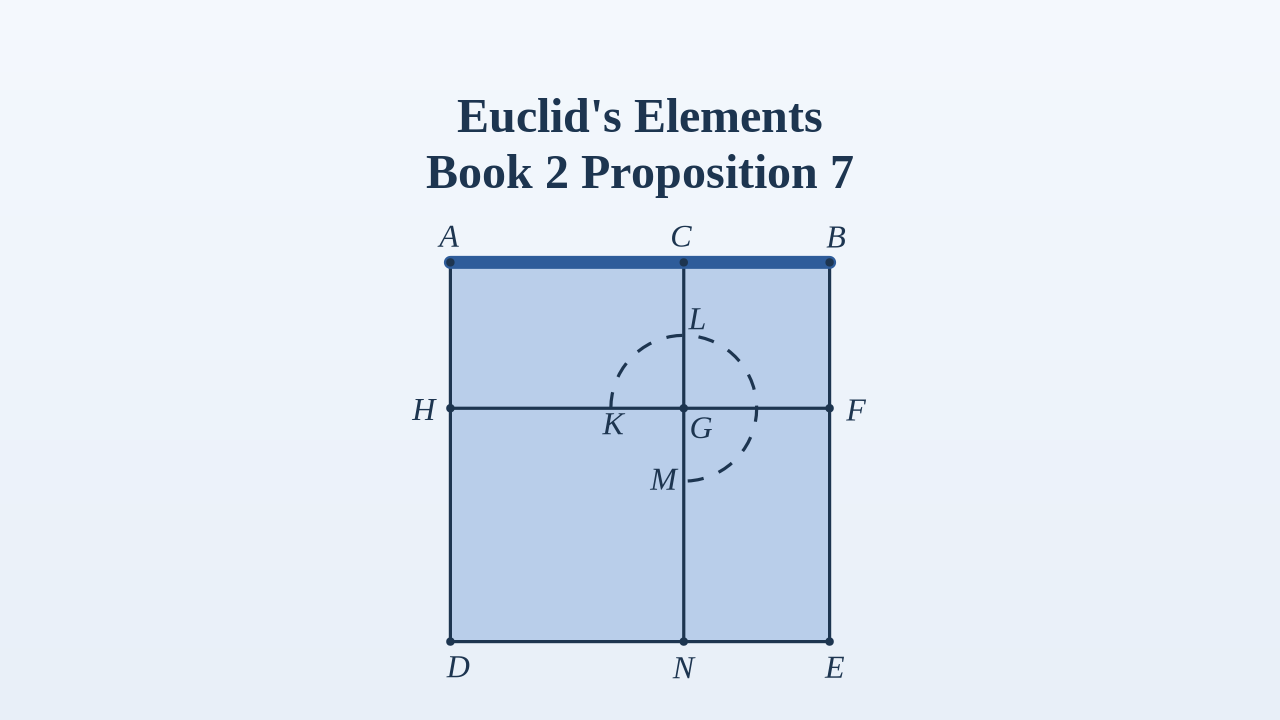
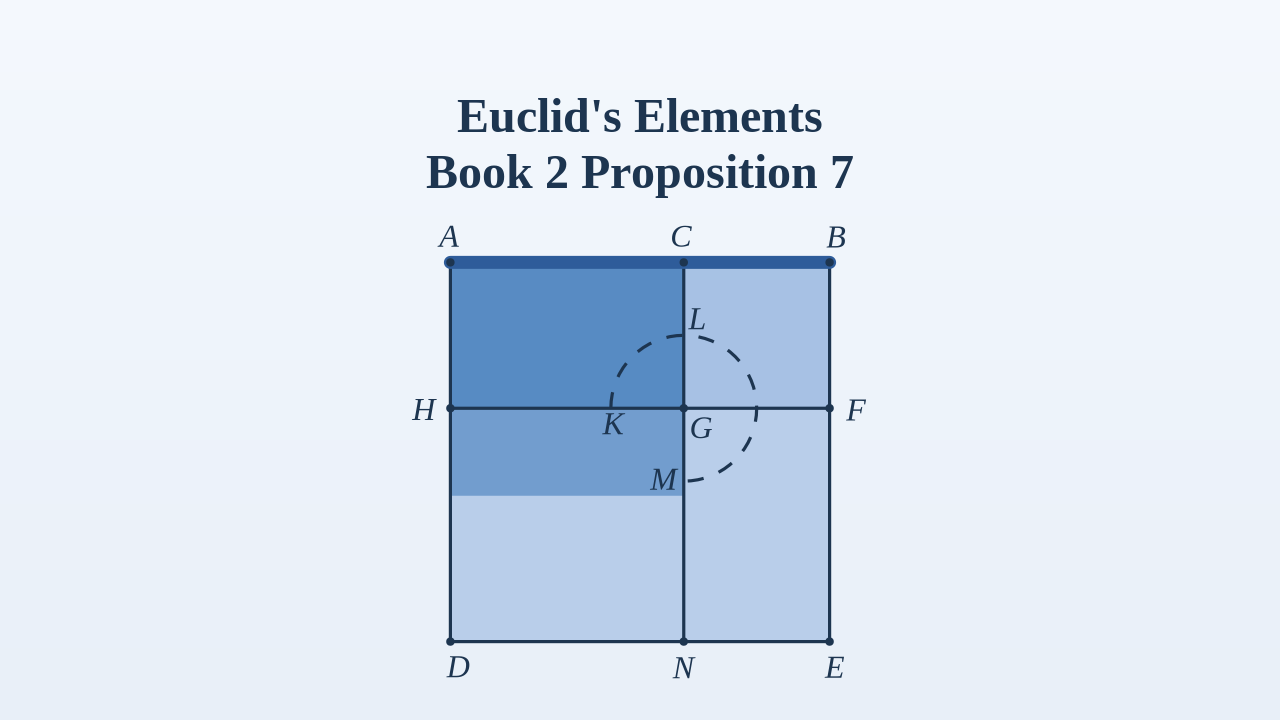
Wash both sides of the equality on the II.7 thumbnail.
The squares on AB and BC stay one pale wash. The rectangle AB by BC and the square on AC take the second wash, as on II.5 and II.6. The square on AC is a shadow standing on AC, not a recolor of the plate's DG.

Changed region(s): [[0.3438, 0.3667, 0.5312, 0.7028]]

diff --git a/scripts/youtube_book1_thumbs.py b/scripts/youtube_book1_thumbs.py
@@ -1334,6 +1334,20 @@ def prepare(n: int, scene: Scene, book: int = 1) -> None:
         scene.pin("Cb2", pts[3])
         for u, v in SQUARE_QUIET2.get(n, ()):
             scene.join(u, v)
+    if book == 2 and n == 7:
+        # Square on AC, the remaining piece. The plate's square on AC is DG,
+        # inside ADEB. The enunciation's square stands on AC, so the card
+        # draws it on AC, below AB — a shadow, not a recolor of DG. Below,
+        # it sits in ADEB and in AF; the mixed fill is the overlap. The
+        # square crosses HK, so the band in AF is a deeper mix than the
+        # band in DG. II.6's square on CB crosses KM the same way.
+        a, c = scene.at("A"), scene.at("C")
+        above = V2((a.x + c.x) / 2, a.y + abs(c.x - a.x))
+        pts = square_outward(a, c, above)
+        scene.pin("Ac1", pts[2])
+        scene.pin("Ac2", pts[3])
+        for u, v in SQUARE_QUIET2.get(n, ()):
+            scene.join(u, v)
     # ANGLES is Book I. Keyed by proposition number only, so I.5's pies
     # would otherwise land on II.5: A, B, C, D, E all exist there, and the
     # wedges read as two pies on the square.
@@ -1448,7 +1462,13 @@ def render(n: int, scene: Scene, out: Path, book: int = 1, washes=None) -> None:
             # LG would paint the plate's square, not the square on CD.
             # II.6 is the same pair: square CF, then rectangle AM and the
             # square on CB. Recoloring LG would paint the plate's square.
-            if len(regions) == 1 or i == 0:
+            # II.7 is the same pair: squares ADEB and CF, then rectangle AF
+            # and the square on AC. Recoloring DG would paint the plate's
+            # square, not the square on AC. CF is painted after AF: AF
+            # contains it, and the square on BC has to stay the first hue.
+            hues = WASH_HUE2.get(n)
+            pale = hues[i] == 0 if hues else (len(regions) == 1 or i == 0)
+            if pale:
                 cr.set_source_rgba(*rgb(WASH2), 0.85)
             else:
                 cr.set_source_rgba(*rgb(GOLD2), 0.62)
@@ -1721,10 +1741,15 @@ WASHES4 = {
 # the half. BD is the added line, drawn on, so it takes the line too.
 # II.7: the squares on the whole and on one piece equal twice the rectangle
 # contained by the whole and that piece, plus the square on the remaining
-# piece. The square on the piece sits inside the square on the whole, so
-# one wash. Two hues would say the squares and the rectangle differ. AB is
-# the straight-line the enunciation cuts. C lies on it, so the named line
-# is the whole chord, not the piece.
+# piece. ADEB is the square on the whole, and CF is the square on BC — the
+# first wash, one hue, the way the left-hand side is one sum. The right-hand
+# side is twice rectangle AF (AB by BC) plus the square on AC. AF is that
+# rectangle. The square on AC is not DG — DG is the plate's square, inside
+# ADEB — so the card draws a shadow standing on AC, below AB. Below, it sits
+# in ADEB and in AF; the mixed fill is the overlap. Two hues are the two
+# sides of the equality. One wash would say the square is the whole claim.
+# AB is the straight-line the enunciation cuts. C lies on it, so the named
+# line is the whole chord, not the piece.
 WASHES2 = {
     1: [("B", "C", "H", "G")],
     2: [("A", "B", "E", "D")],
@@ -1732,7 +1757,16 @@ WASHES2 = {
     4: [("A", "B", "E", "D")],
     5: [("C", "B", "F", "E"), ("A", "D", "H", "K"), ("C", "D", "Cd1", "Cd2")],
     6: [("C", "D", "F", "E"), ("A", "D", "M", "K"), ("C", "B", "Cb1", "Cb2")],
-    7: [("A", "B", "E", "D")],
+    7: [("A", "B", "E", "D"), ("A", "B", "F", "H"), ("C", "B", "F", "G"), ("A", "C", "Ac1", "Ac2")],
+}
+
+# Hue of each WASHES2 region. 0 is the pale wash, 1 the second. Absent: the
+# first region is pale and the rest are the second, as on II.5 and II.6.
+# II.7's square on BC sits inside the rectangle, so that square is painted
+# after the rectangle and stays the first hue. The shadow is last, so the
+# overlap mixes.
+WASH_HUE2 = {
+    7: [0, 1, 0, 1],
 }
 
 # Outer edges of the shadow square the enunciation names and the plate
@@ -1741,6 +1775,7 @@ WASHES2 = {
 SQUARE_QUIET2: dict[int, tuple[tuple[str, str], ...]] = {
     5: (("D", "Cd1"), ("Cd1", "Cd2"), ("Cd2", "C")),
     6: (("B", "Cb1"), ("Cb1", "Cb2"), ("Cb2", "C")),
+    7: (("C", "Ac1"), ("Ac1", "Ac2"), ("Ac2", "A")),
 }
 
 # Named straight-lines, book by book. Book I is LINES. A produced ray is
